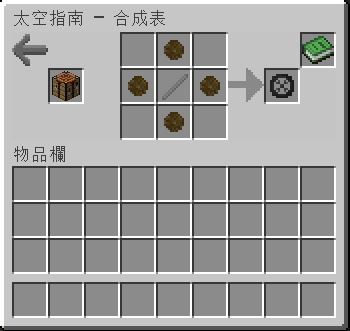
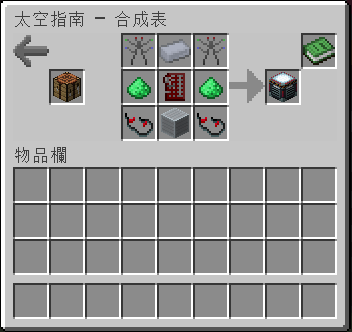
GITBOOK-176: No subject

diff --git a/item/teleporter.md b/item/teleporter.md
@@ -1,26 +1,30 @@
 # ⚡ 傳送器
 
-Teleporter 是一種[通電機器](https://github.com/Z4OLLIEZ4/Space/wiki/Energy-Systems)，可以獲取由[Teleporter Drives](https://github.com/Z4OLLIEZ4/Space/wiki/Teleporter-Drive)保存的位置，並將它們變成可以傳送到的路標。每次傳送需要400單位的能量。
+<figure><img src="../.gitbook/assets/image (212).png" alt=""><figcaption></figcaption></figure>
+
+傳送器是一種[通電機器](../space/energy-systems.md)，可以讀取由座標記錄儀保存的位置，並可以進行傳送。
+
+每次傳送需要400單位的能量。
 
 ## 獲得
 
 ### 製作
 
-可以使用以下物品製作傳送器：
+傳送器可以使用以下物品製作：
 
-* 1x[高級電路板](https://github.com/Z4OLLIEZ4/Space/wiki/Advanced-Circuit-Board)
-* 1x[鈦錠](https://github.com/Z4OLLIEZ4/Space/wiki/Titanium-Ingot)
-* 1x[鈦塊](https://github.com/Z4OLLIEZ4/Space/wiki/Titanium-Block)
-* 2x[防浪湧線](https://github.com/Z4OLLIEZ4/Space/wiki/Surge-Proof-Wire)
-* 2x[鈾塵](https://github.com/Z4OLLIEZ4/Space/wiki/Uranium-Dust)
-* 2x[天線](https://github.com/Z4OLLIEZ4/Space/wiki/Antenna)
+<figure><img src="../.gitbook/assets/image.png" alt=""><figcaption></figcaption></figure>
 
-![圖片不可用](https://camo.githubusercontent.com/66c5eb8fc1ca23bce7ac89477835379d999e45a23e7846f92e4560a6a8b3b766/68747470733a2f2f692e696d6775722e636f6d2f5147786339574d2e706e67)
+* 1 [高級電路板](Advanced-Circuit-Board.md)
+* 1 [鈦錠](titanium-ingot.md)
+* 1 [鈦塊](Titanium-Block.md)
+* 2 [防突波電線](Surge-Proof-Wire.md)
+* 2 [鈾粉](uranium-dust.md)
+* 2 [天線](Antenna.md)
 
 ## 用法
 
-### 激活
+### 啟動
 
-傳送器可以通過[管道](https://github.com/Z4OLLIEZ4/Space/wiki/conduit)接受能量。
+傳送器可以通過[導管](Conduit.md)接受能量。
 
 傳送器最多可以存儲 8000 個單位的能量。

diff --git a/item/G-Boots.md b/item/G-Boots.md
@@ -12,7 +12,7 @@ G-靴子 可以減輕低重力的影響。穿戴時，只需輕按Shift，靴子
 
 G-靴子 可以使用以下物品製作：
 
-![](<../.gitbook/assets/image (212).png>)
+![](<../.gitbook/assets/image (212) (2).png>)
 
 * 1 [電池](Battery.md)
 * 1 鐵製靴子

diff --git a/item/Antenna.md b/item/Antenna.md
@@ -10,7 +10,7 @@
 
 天線可以使用以下物品製作：
 
-![](<../.gitbook/assets/image (9).png>)
+![](<../.gitbook/assets/image (9) (2).png>)
 
 * 1[塑料](Plastic.md)
 * 1[防突波電線](Surge-Proof-Wire.md)

diff --git a/item/Wheel.md b/item/Wheel.md
@@ -10,7 +10,7 @@
 
 輪子可以使用以下物品製作：
 
-![](../.gitbook/assets/image.png)
+![](<../.gitbook/assets/image (9).png>)
 
 * 1[鋁棒](Aluminium-Rod.md)
 * 4[橡膠](Rubber.md)

diff --git a/item/Rockets.md b/item/Rockets.md
@@ -1,4 +1,4 @@
-# ⚙ 火箭
+# 🚁 火箭
 
 ![](<../.gitbook/assets/image (223) (1) (1) (1).png>)
 

diff --git a/item/Rover.md b/item/Rover.md
@@ -1,4 +1,4 @@
-# ⚙ 漫遊者
+# 🚁 漫遊者
 
 
 
